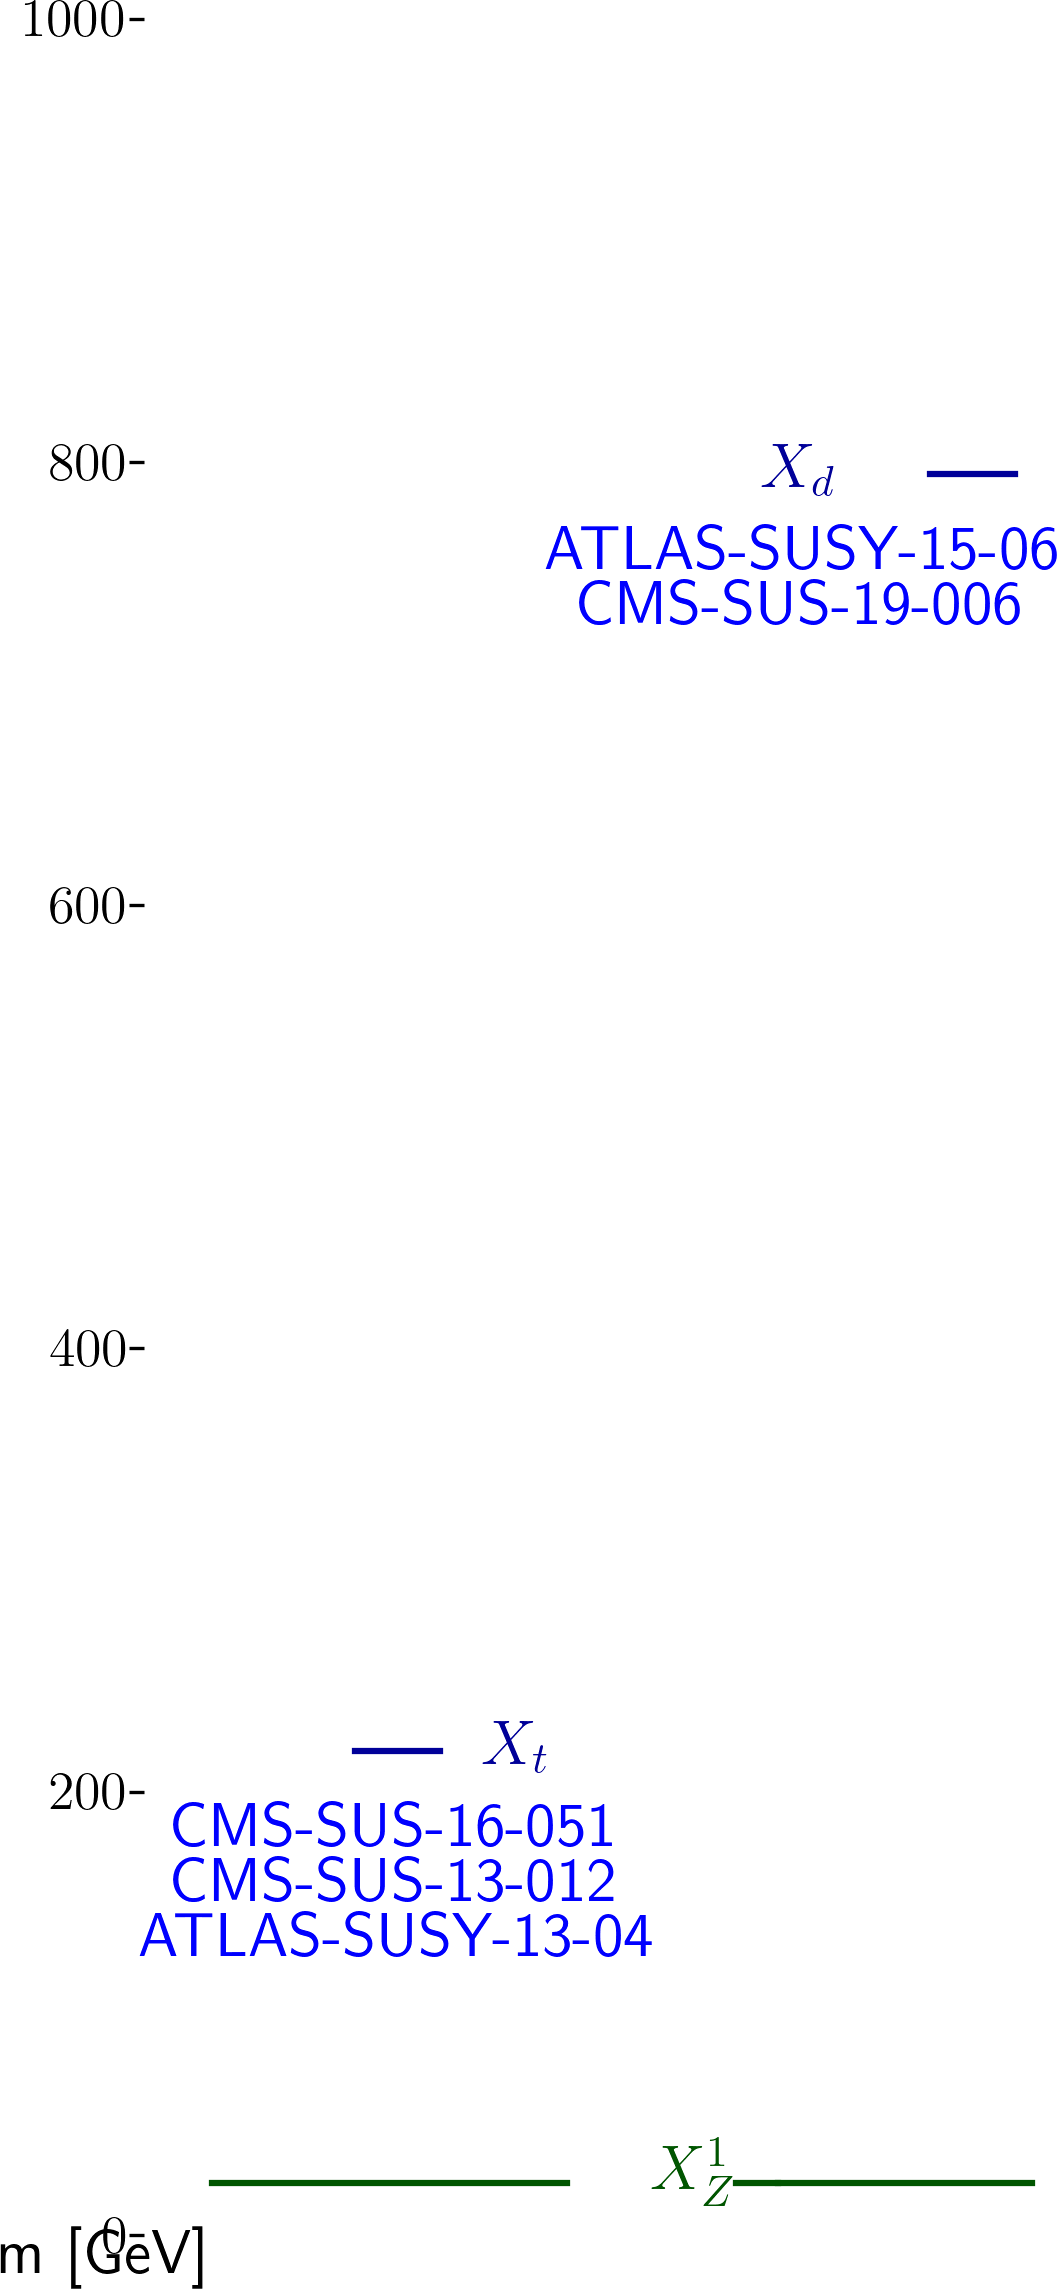
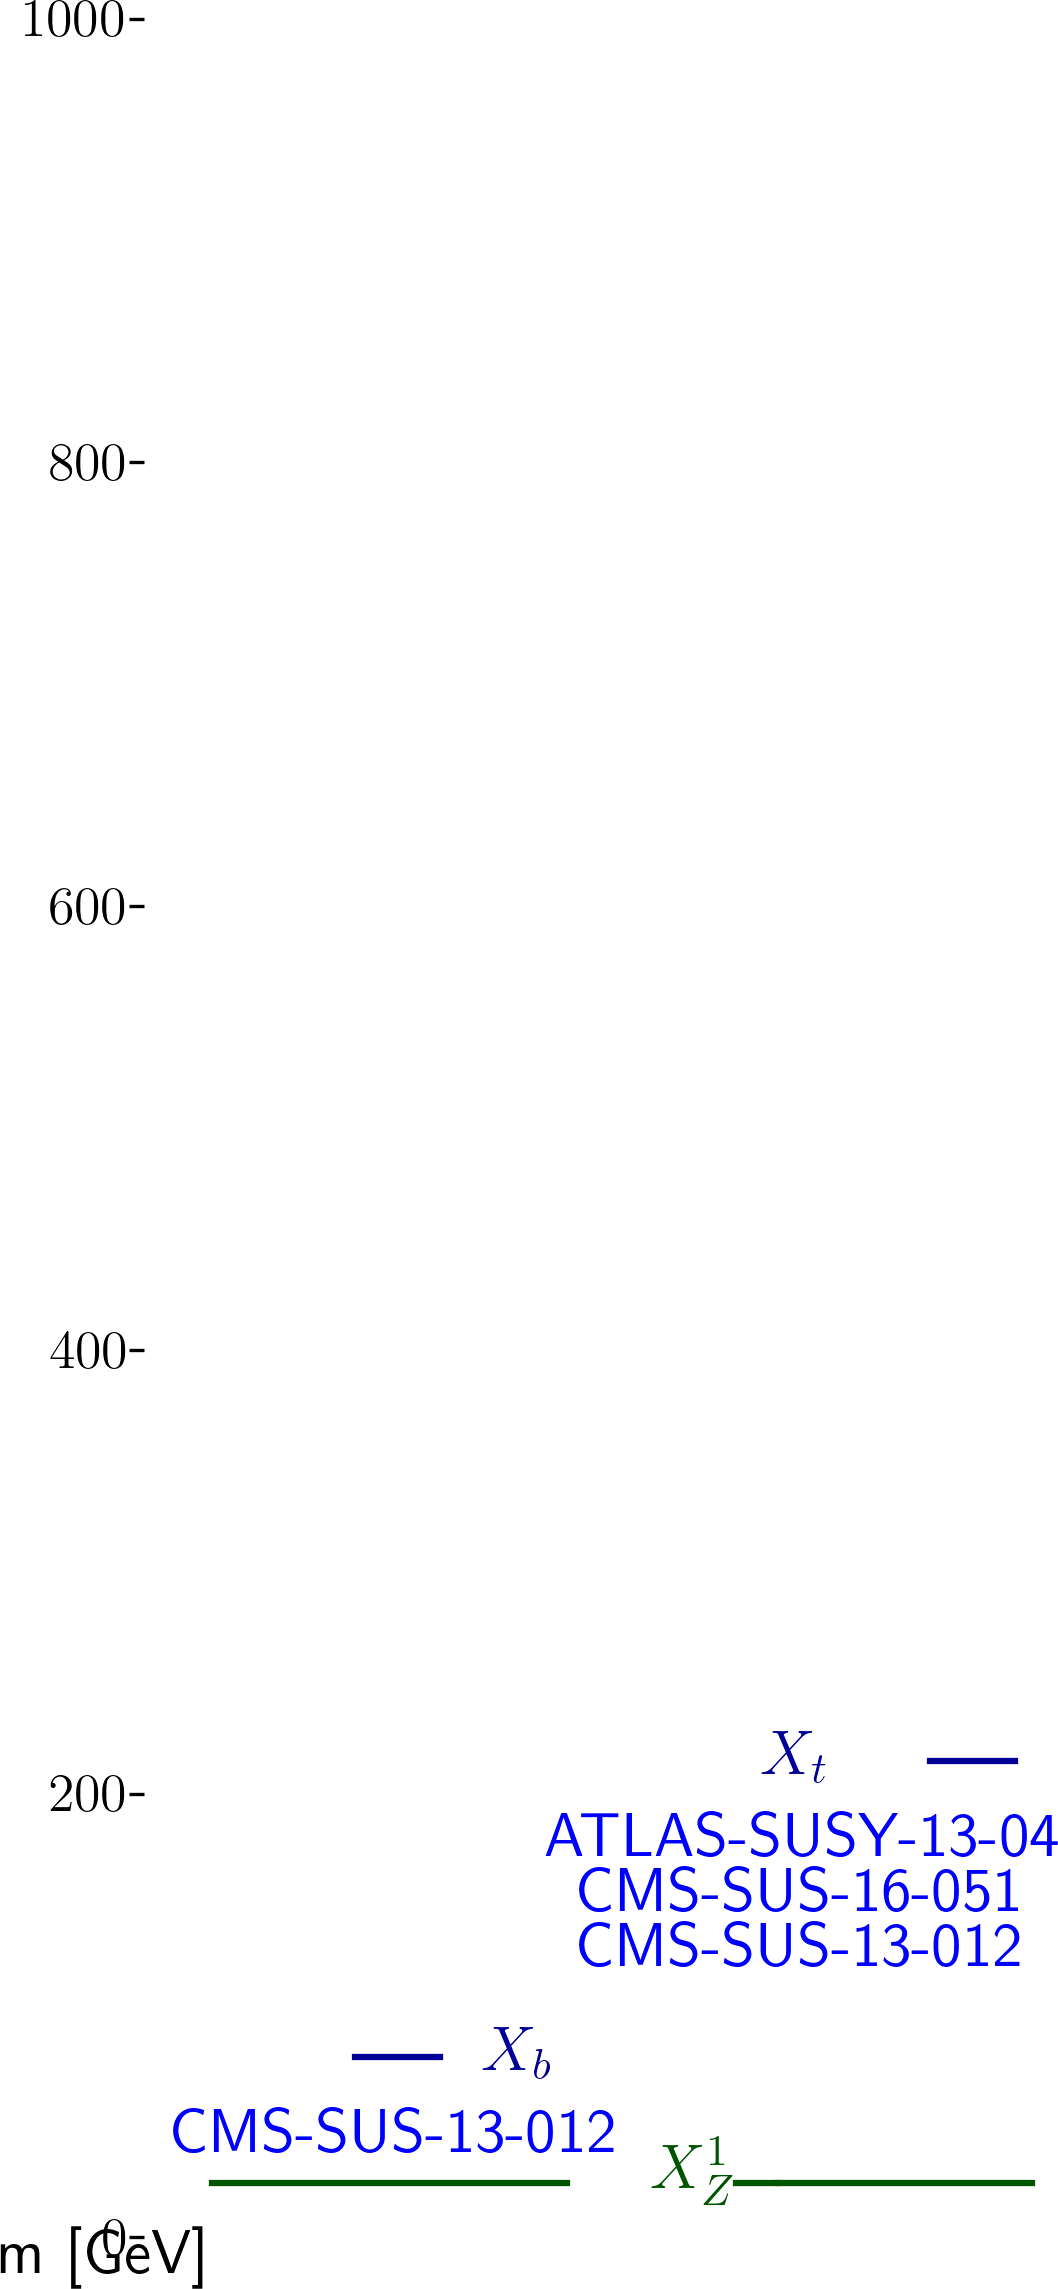
automated update by plotHiscore.py

diff --git a/protomodels/latest/index.html b/protomodels/latest/index.html
@@ -1,30 +1,29 @@
 <html>
 <body>
 <center>
-<table><td><h1>Current best protomodel: K=9.45</h1><td><img height=60px src=https://smodels.github.io/pics/banner.png></table>
+<table><td><h1>Current best protomodel: K=15.99</h1><td><img height=60px src=https://smodels.github.io/pics/banner.png></table>
 </center>
-<b><a href=./hiscore.slha>ProtoModel</a> <a href=./pmodel.py>(dict)</a> produced with <a href=https://smodels.github.io/docs/Validation124signal5>database v1.2.4signal5</a>, combination strategy <a href=./matrix_aggressive.png>aggressive</a> in walker 9 step 602.</b> K plots for: <a href=./M1000022.png?8847261>X<sub>Z</sub><sup>1</sup></a>, <a href=./M1000001.png?8847261>X<sub>d</sub></a>, <a href=./M1000006.png?8847261>X<sub>t</sub></a>. HPD plots for: <a href=./llhd1000001.png?8847261>X<sub>d</sub></a>, <a href=./llhd1000006.png?8847261>X<sub>t</sub></a>. SSM plots for: <a href=./ssm_-1000006_1000006.png?8847261>(x&#772;<sub>t</sub>,X<sub>t</sub>)</a><br>
+<b><a href=./hiscore.slha>ProtoModel</a> <a href=./pmodel.py>(dict)</a> produced with <a href=https://smodels.github.io/docs/Validation124signal7>database v1.2.4signal7</a>, combination strategy <a href=./matrix_aggressive.png>aggressive</a> in walker 38 step 890.</b> K plots for: <a href=./M1000022.png?8847417>X<sub>Z</sub><sup>1</sup></a>, <a href=./M1000021.png?8847417>X<sub>g</sub></a>. HPD plots for: <a href=./llhd1000021.png?8847417>X<sub>g</sub></a>. SSM plots for: <a href=./ssm_1000021_1000021.png?8847417>(X<sub>g</sub>,X<sub>g</sub>)</a><br>
 <table width=80%>
 <tr><td>
-<br><b>24 predictions available. Highest r values are:</b><br><ul>
-<li><a href=http://cms-results.web.cern.ch/cms-results/public-results/publications/SUS-19-006/index.html>CMS-SUS-19-006</a>:T2tt r=1.30, r<sub>exp</sub>=0.25<br>
-<li><a href=http://cms-results.web.cern.ch/cms-results/public-results/publications/SUS-16-033/index.html>CMS-SUS-16-033</a>:T2tt r=1.12, r<sub>exp</sub>=1.19<br>
-<li><a href=http://cms-results.web.cern.ch/cms-results/public-results/publications/SUS-16-049/index.html>CMS-SUS-16-049</a>:T2tt r=0.94, r<sub>exp</sub>=0.59<br>
-<li><a href=http://cms-results.web.cern.ch/cms-results/public-results/publications/SUS-16-033/index.html>CMS-SUS-16-033</a>:T2 r=0.87, r<sub>exp</sub>=0.92<br>
-<li><a href=http://cms-results.web.cern.ch/cms-results/public-results/publications/SUS-17-010>CMS-SUS-17-010</a>:T2tt r=0.70, r<sub>exp</sub>=0.68<br>
+<br><b>8 predictions available. Highest r values are:</b><br><ul>
+<li><a href=https://twiki.cern.ch/twiki/bin/view/CMSPublic/PhysicsResultsSUS13012>CMS-SUS-13-012</a>:T1bbbb,T2 r=1.30, r<sub>exp</sub>=1.56<br>
+<li><a href=http://cms-results.web.cern.ch/cms-results/public-results/publications/SUS-16-036/index.html>CMS-SUS-16-036</a>:T2cc r=0.93, r<sub>exp</sub>=0.85<br>
+<li><a href=http://cms-results.web.cern.ch/cms-results/public-results/publications/SUS-16-049/index.html>CMS-SUS-16-049</a>:T2cc r=0.57, r<sub>exp</sub>=1.16<br>
+<li><a href=https://atlas.web.cern.ch/Atlas/GROUPS/PHYSICS/PAPERS/SUSY-2013-04/>ATLAS-SUSY-2013-04</a>:T1bbbb r=0.49, r<sub>exp</sub>=0.62<br>
+<li><a href=https://atlas.web.cern.ch/Atlas/GROUPS/PHYSICS/PAPERS/SUSY-2013-02/>ATLAS-SUSY-2013-02</a>:T2,T1 r=0.36, r<sub>exp</sub>=0.28<br>
 </ul>
 <td><br><b>K values without analyses: (contribution)</b><br>
 <ul>
-<li> <a href=http://atlas.web.cern.ch/Atlas/GROUPS/PHYSICS/PAPERS/SUSY-2015-06/>ATLAS-SUSY-2015-06</a>: 7.08 (11%)
-<li> <a href=http://cms-results.web.cern.ch/cms-results/public-results/publications/SUS-16-051/index.html>CMS-SUS-16-051</a>: 6.76 (12%)
-<li> <a href=http://cms-results.web.cern.ch/cms-results/public-results/publications/SUS-19-006/index.html>CMS-SUS-19-006</a>: 6.76 (12%)
-<li> <a href=https://twiki.cern.ch/twiki/bin/view/CMSPublic/PhysicsResultsSUS13012>CMS-SUS-13-012</a>: 5.72 (17%)
-<li> <a href=https://atlas.web.cern.ch/Atlas/GROUPS/PHYSICS/PAPERS/SUSY-2013-04/>ATLAS-SUSY-2013-04</a>: -0.69 (47%)
-<td><img width=600px src=./texdoc.png?1601847261>
-<br><font size=-1>Last updated: Sun Oct  4 23:34:21 2020</font>
+<li> <a href=http://cms-results.web.cern.ch/cms-results/public-results/publications/SUS-16-049/index.html>CMS-SUS-16-049</a>: 12.53 (11%)
+<li> <a href=https://atlas.web.cern.ch/Atlas/GROUPS/PHYSICS/PAPERS/SUSY-2016-07/>ATLAS-SUSY-2016-07</a>: 12.06 (13%)
+<li> <a href=https://atlas.web.cern.ch/Atlas/GROUPS/PHYSICS/PAPERS/SUSY-2013-04/>ATLAS-SUSY-2013-04</a>: 11.95 (13%)
+<li> <a href=https://twiki.cern.ch/twiki/bin/view/CMSPublic/PhysicsResultsSUS13012>CMS-SUS-13-012</a>: -2.89 (62%)
+<td><img width=600px src=./texdoc.png?1601847417>
+<br><font size=-1>Last updated: Sun Oct  4 23:36:57 2020</font>
 </table><table style="width:80%">
-<td width=45%><img height=580px src=./ruler.png?1601847261><td width=55%><img height=380px src=./decays.png?1601847261>
-<font size=-3><iframe type="text/html" height="220px" width="100%s" frameborder="0" src="./rawnumbers.html?1601847261"></iframe></font>
+<td width=45%><img height=580px src=./ruler.png?1601847417><td width=55%><img height=380px src=./decays.png?1601847417>
+<font size=-3><iframe type="text/html" height="220px" width="100%s" frameborder="0" src="./rawnumbers.html?1601847417"></iframe></font>
 </table>
 </body>
 </html>

diff --git a/protomodels/latest/rawnumbers.html b/protomodels/latest/rawnumbers.html
@@ -1,9 +1,8 @@
 <table>
 <tr><th>Analysis Name</th><th>Type</th><th>Dataset</th><th>Topos</th><th>Observed</th><th>Expected</th><th>Approx &sigma;</th><th>Particles</th><th>Signal</th>
 </tr>
-<tr><td><a href=https://atlas.web.cern.ch/Atlas/GROUPS/PHYSICS/PAPERS/SUSY-2013-04/>ATLAS-SUSY-2013-04</a></td><td>em</td> <td>GtGrid_SR_10ij5 ...</td><td>T2tt</td><td>7</td><td>1.37 +/- 0.35</td><td style="text-align:right">4.6 &sigma;</td><td style="text-align:right">X<sub>t</sub></td><td style="text-align:right">7</td></tr>
-<tr><td><a href=http://atlas.web.cern.ch/Atlas/GROUPS/PHYSICS/PAPERS/SUSY-2015-06/>ATLAS-SUSY-2015-06</a></td><td>em</td> <td>SR4jt</td><td>T2</td><td>3</td><td>4.1 +/- 1.1</td><td style="text-align:right">-0.5 &sigma;</td><td style="text-align:right">X<sub>d</sub></td><td style="text-align:right">0</td></tr>
-<tr><td><a href=https://twiki.cern.ch/twiki/bin/view/CMSPublic/PhysicsResultsSUS13012>CMS-SUS-13-012</a></td><td>em</td> <td>6NJet8_800HT100 ...</td><td>T2tt</td><td>45</td><td>28.6 +/- 6.9</td><td style="text-align:right">1.9 &sigma;</td><td style="text-align:right">X<sub>t</sub></td><td style="text-align:right">26</td></tr>
-<tr><td><a href=http://cms-results.web.cern.ch/cms-results/public-results/publications/SUS-16-051/index.html>CMS-SUS-16-051</a></td><td>ul</td> <td>-</td><td>T2tt</td><td> 110680.5 fb </td><td> 117754.4 fb</td><td style="text-align:right">-0.1 &sigma;</td><td style="text-align:right">X<sub>t</sub></td><td style="text-align:right">42642.18 fb</td></tr>
-<tr><td><a href=http://cms-results.web.cern.ch/cms-results/public-results/publications/SUS-19-006/index.html>CMS-SUS-19-006</a></td><td>ul</td> <td>-</td><td>T2</td><td> 26.0 fb </td><td> 13.8 fb</td><td style="text-align:right">1.7 &sigma;</td><td style="text-align:right">X<sub>d</sub></td><td style="text-align:right">11.34 fb</td></tr>
+<tr><td><a href=https://atlas.web.cern.ch/Atlas/GROUPS/PHYSICS/PAPERS/SUSY-2013-04/>ATLAS-SUSY-2013-04</a></td><td>em</td> <td>GtGrid_SR_8ej50 ...</td><td>T1bbbb</td><td>43</td><td>35 +/- 4</td><td style="text-align:right">1.1 &sigma;</td><td style="text-align:right">X<sub>g</sub></td><td style="text-align:right">10</td></tr>
+<tr><td><a href=https://atlas.web.cern.ch/Atlas/GROUPS/PHYSICS/PAPERS/SUSY-2016-07/>ATLAS-SUSY-2016-07</a></td><td>em</td> <td>2j_Meff_1600</td><td>T1</td><td>239</td><td>228 +/- 19</td><td style="text-align:right">0.5 &sigma;</td><td style="text-align:right">X<sub>g</sub></td><td style="text-align:right">22</td></tr>
+<tr><td><a href=https://twiki.cern.ch/twiki/bin/view/CMSPublic/PhysicsResultsSUS13012>CMS-SUS-13-012</a></td><td>em</td> <td>6NJet8_800HT100 ...</td><td>T1bbbb, T2</td><td>68</td><td>28.6 +/- 6.9</td><td style="text-align:right">4.5 &sigma;</td><td style="text-align:right">X<sub>g</sub></td><td style="text-align:right">28</td></tr>
+<tr><td><a href=http://cms-results.web.cern.ch/cms-results/public-results/publications/SUS-16-049/index.html>CMS-SUS-16-049</a></td><td>ul</td> <td>-</td><td>T2cc</td><td> 8842.5 fb </td><td> 4345.7 fb</td><td style="text-align:right">2.0 &sigma;</td><td style="text-align:right">X<sub>g</sub></td><td style="text-align:right">-</td></tr>
 </table>

diff --git a/protomodels/latest/pmodel.py b/protomodels/latest/pmodel.py
@@ -1,1 +1,1 @@
-{'masses': {1000022: 13.342, 1000006: 208.526, 1000001: 784.516}, 'ssmultipliers': {(1000022, 1000022): 0.0, (1000006, 1000006): 0.438, (-1000006, 1000006): 0.438, (-1000006, -1000006): 0.438, (1000006, 1000022): 0.438, (-1000006, 1000022): 0.438, (1000001, 1000001): 0.999, (-1000001, 1000001): 0.999, (-1000001, -1000001): 0.999, (1000001, 1000022): 0.999, (-1000001, 1000022): 0.999, (1000001, 1000006): 0.999, (-1000001, 1000006): 1.007, (-1000006, 1000001): 0.999, (-1000006, -1000001): 0.999}, 'decays': {1000022: {}, 1000006: {(1000022, 6): 1.0}, 1000001: {(1000022, 1): 1.0}}, 'timestamp': 'Sun Oct  4 23:34:01 2020', 'Z': 3.605, 'K': 9.447, 'step': 602, 'codever': '1.0', 'dbver': '1.2.4signal5'}
+{'masses': {1000022: 14.365, 1000005: 71.386, 1000006: 204.731}, 'ssmultipliers': {(1000022, 1000022): 0.0, (1000005, 1000005): 0.147, (-1000005, 1000005): 0.147, (-1000005, -1000005): 0.147, (1000005, 1000022): 0.147, (-1000005, 1000022): 0.147, (1000006, 1000006): 1.081, (-1000006, 1000006): 1.081, (-1000006, -1000006): 1.081, (1000006, 1000022): 1.081, (-1000006, 1000022): 1.081, (1000005, 1000006): 1.081, (-1000006, 1000005): 1.081, (-1000005, 1000006): 1.081, (-1000006, -1000005): 1.081}, 'decays': {1000022: {}, 1000005: {(1000022, 5): 1.0}, 1000006: {(1000005, 24): 0.252, (1000022, 6): 0.748}}, 'timestamp': 'Sun Oct  4 23:36:27 2020', 'Z': 5.404, 'K': 25.128, 'step': 842, 'codever': '1.0', 'dbver': '1.2.4signal8'}
